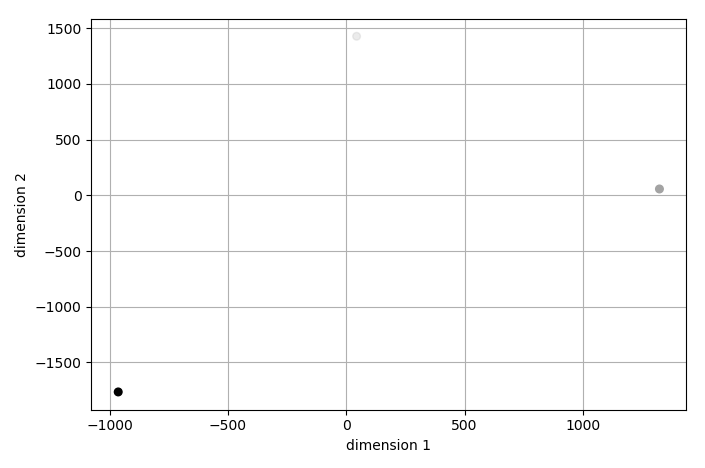
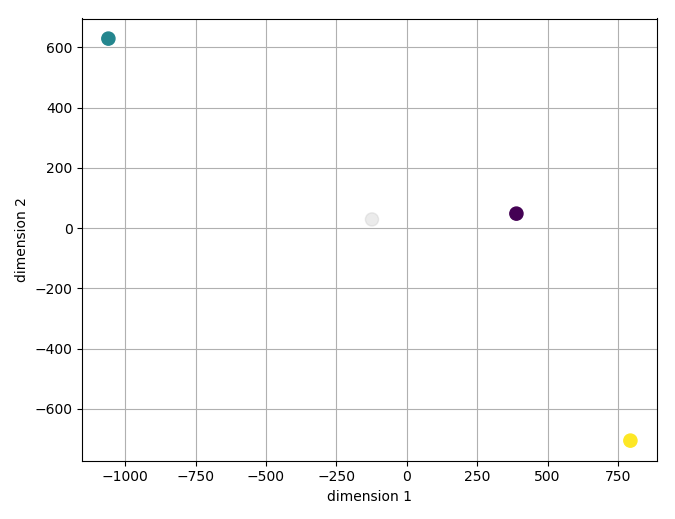
t-SNE example

diff --git a/singlet/dataset/plot.py b/singlet/dataset/plot.py
@@ -492,7 +492,7 @@ class Plot():
             vectors_reduced,
             color_by=None,
             color_log=None,
-            cmap='Greys',
+            cmap='viridis',
             ax=None,
             tight_layout=True,
             legend=False,
@@ -534,7 +534,7 @@ class Plot():
             new_axes = False
 
         defaults = {
-                's': 30,
+                's': 90,
                 }
         Plot._update_properties(kwargs, defaults)
 

diff --git a/docs/examples/tsne.rst b/docs/examples/tsne.rst
@@ -1,0 +1,35 @@
+Example: t-SNE
+==============
+t-SNE [tsne]_ is a commonly used algorithm to reduce dimensionality in single cell data.
+
+.. code-block:: python
+
+  from singlet.dataset import Dataset
+  ds = Dataset(
+          samplesheet='example_sheet_tsv',
+          counts_table='example_table_tsv')
+
+  ds.counts.normalize('counts_per_million', inplace=True)
+  ds.counts = ds.counts.iloc[:200]
+
+  print('Calculate t-SNE')
+  vs = ds.dimensionality.tsne(
+          n_dims=2,
+          transform='log10',
+          theta=0.5,
+          perplexity=0.8)
+
+  print('Plot t-SNE')
+  ax = ds.plot.scatter_reduced_samples(
+          vs,
+          color_by='quantitative_phenotype_1_[A.U.]')
+
+  plt.show()
+
+You should get figures similar to the following ones:
+
+.. image:: ../_static/example_tsne.png
+   :width: 600
+   :alt: tsne
+
+.. [tsne] L.J.P. van der Maaten and G.E. Hinton. Visualizing High-Dimensional Data Using t-SNE. Journal of Machine Learning Research 9(Nov):2579-2605, 2008.

diff --git a/docs/examples.rst b/docs/examples.rst
@@ -2,3 +2,4 @@ Examples
 ========
 - :doc:`examples/quality_control`
 - :doc:`examples/pca`
+- :doc:`examples/tsne`
